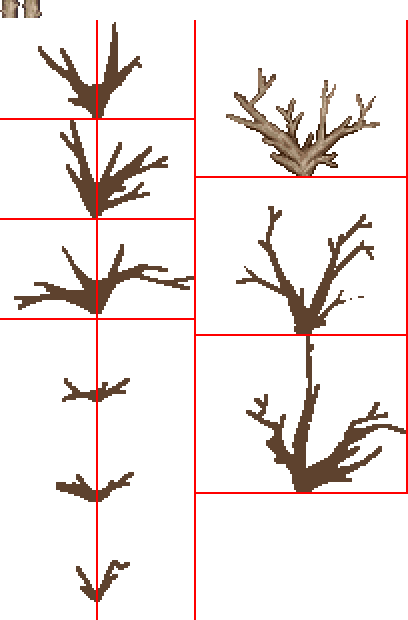
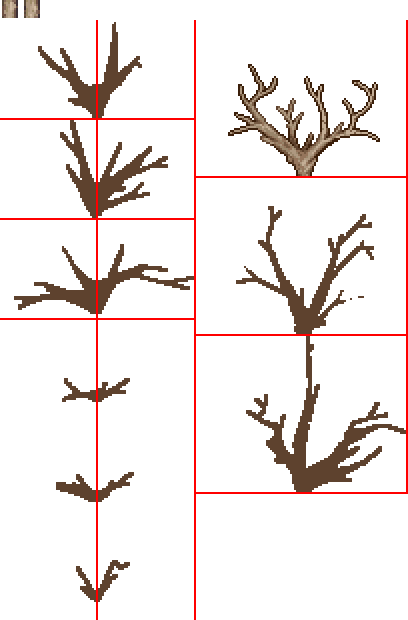
Update texture

Changed region(s): [[0.7353, 0.1226, 0.9412, 0.2758], [0.5588, 0.0919, 0.7353, 0.2758], [0.0294, 0.0, 0.0588, 0.0306]]

diff --git a/Content/SaltFlats/Tiles/DeadTree.cs b/Content/SaltFlats/Tiles/DeadTree.cs
@@ -44,7 +44,7 @@ public class DeadTree : CustomTree
 			var source = new Rectangle(196, 20 + (size.Y + 2) * frameY, size.X, size.Y);
 			var origin = new Vector2(source.Width / 2, source.Height);
 
-			spriteBatch.Draw(texture, position + new Vector2(9, 3), source, color, rotation, origin, 1, SpriteEffects.None, 0);
+			spriteBatch.Draw(texture, position + new Vector2(7, 0), source, color, rotation, origin, 1, SpriteEffects.None, 0);
 		}
 		else //Draw branches
 		{
